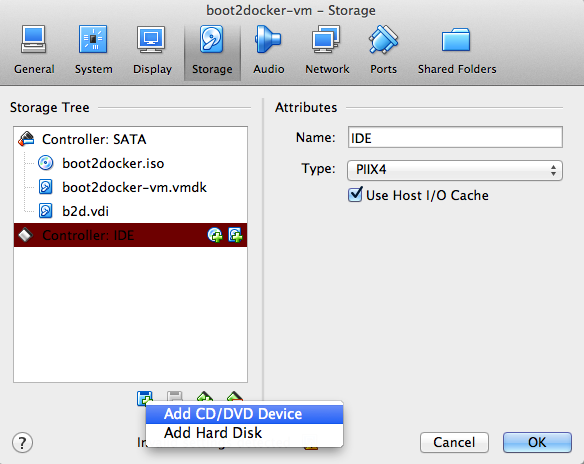
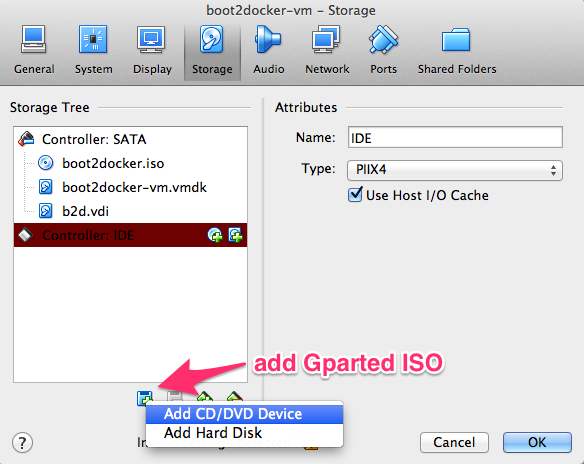
Image additions and copy changes.

Changed region(s): [[0.2774, 0.7543, 0.7705, 0.875]]

diff --git a/github/docker/master/docs/sources/articles/b2d_volume_resize.md b/github/docker/master/docs/sources/articles/b2d_volume_resize.md
@@ -5,25 +5,29 @@ page_keywords: boot2docker, volume, virtualbox
 # Getting “no space left on device” Errors with Boot2Docker?
 
 If you're using Boot2Docker with a large number of images, or the images you're working 
-with are very large, you might run into trouble if the Boot2Docker VM's volume runs out of 
-space. The solution is to increase the volume size by first cloning it, then resizing it 
-using a disk partitioning tool. We'll use [GParted](http://gparted.sourceforge.net/download.php/index.php) 
+with are very large, your pulls might start failing with "no space left on device" errors when
+the Boot2Docker VM's volume runs out of space. The solution is to increase the volume size by 
+first cloning it, then resizing it using a disk partitioning tool. 
+
+We'll use [GParted](http://gparted.sourceforge.net/download.php/index.php) 
 since it's a free ISO and works well with VirtualBox.
 
 ## 1. Stop Boot2Docker’s VM
 
+Issue the command to stop the Boot2Docker VM on the command line:
+
     $ boot2docker stop 
 
-Boot2Docker ships with a VMDK image, which can’t be resized by VirtualBox’s native tools. We will instead 
-create a VDI volume and clone the VMDK volume to it.
-
 ## 2. Clone the VMDK image to a VDI image
+
+Boot2Docker ships with a VMDK image, which can’t be resized by VirtualBox’s native tools. We will 
+instead create a VDI volume and clone the VMDK volume to it. 
 
 Using the command line VirtualBox tools, clone the VMDK image to a VDI image:
 
     $ vboxmanage clonehd /full/path/to/boot2docker-hd.vmdk /full/path/to/<newVDIimage>.vdi -—format VDI -—variant Standard
 
-## 3. Resize the new clone volume
+## 3. Resize the VDI volume you created
 
 Choose a size that will be appropriate for your needs. If you’re spinning up a lot of containers, 
 or your containers are particularly large, larger will be better:
@@ -33,21 +37,31 @@ or your containers are particularly large, larger will be better:
 ## 4. Download a disk partitioning tool ISO 
 
 To resize the volume, you'll need a disk partitioning tool like [GParted](http://gparted.sourceforge.net/download.php/). 
-Once you've downloaded the tool, add the ISO to the Boot2Docker VM’s IDE bus. You might need to 
-create the bus before you can add the ISO.
+Once you've downloaded the tool, add the ISO to the Boot2Docker VM’s IDE bus. 
+You might need to create the bus before you can add the ISO. **Note:** It's 
+important that the partitioning tool you choose is available as an ISO so that 
+the Boot2Docker VM can be booted with it.
 
-<img src="/articles/b2d_volume_images/add_new_controller.png"></br>
-<img src="/articles/b2d_volume_images/add_cd.png">
+<table>
+	<tr>
+		<td><img src="/articles/b2d_volume_images/add_new_controller.png"><br><br></td>
+	</tr>
+	<tr>
+		<td><img src="/articles/b2d_volume_images/add_cd.png"></td>
+	</tr>
+</table>
 
 ## 5. Add the new VDI image 
 
-to the Boot2Docker image in VirtualBox.
+In the settings for the Boot2Docker image in VirtualBox, remove the VMDK image from 
+the SATA contoller and add the VDI image.
 
 <img src="/articles/b2d_volume_images/add_volume.png">
 
 ## 6. Verify the boot order
 
-In the **System** settings for the Boot2Docker VM, make sure that **CD/DVD** is the at the top of the **Boot Order** list.
+In the **System** settings for the Boot2Docker VM, make sure that **CD/DVD** is at 
+the top of the **Boot Order** list.
 
 <img src="/articles/b2d_volume_images/boot_order.png">
 
@@ -57,14 +71,23 @@ Manually start the Boot2Docker VM, and the disk partitioning ISO should start up
 Using GParted, choose the **GParted Live (default settings)** option. Choose the 
 default keyboard, language, and XWindows settings, and the GParted tool will start 
 up and display the new VDI volume you created. Right click on the VDI and choose 
-**Resize/Move**. Drag the slider representing the volume to its maximum size, click 
-**Resize/Move**, and then **Apply**. Quit GParted and shut down the VM. Remove 
-the GParted ISO from the IDE controller for the Boot2Docker VM in VirtualBox.
+**Resize/Move**. 
+
+<img src="/articles/b2d_volume_images/gparted.png">
+
+Drag the slider representing the volume to its maximum size, click **Resize/Move**, 
+and then **Apply**. 
+
+<img src="/articles/b2d_volume_images/gparted2.png">
+
+Quit GParted and shut down the VM. Remove the GParted ISO from the IDE controller for 
+the Boot2Docker VM in VirtualBox.
 
 ## 8. Start the Boot2Docker VM 
 
-Either directly in VirtualBox or using the command line (`boot2docker start`), start the Boot2Docker 
-VM to make sure the volume changes took effect.
+Fire up the Boot2Docker VM manually in VirtualBox. The VM should log in automatically, but the credentials are ``docker/tcuser`` if it doesn't. Using the ``df -h`` command, verify that your changes took effect.
+
+<img src="/images/b2d_volume_images/verify.png">
 
 You’re done!
 
